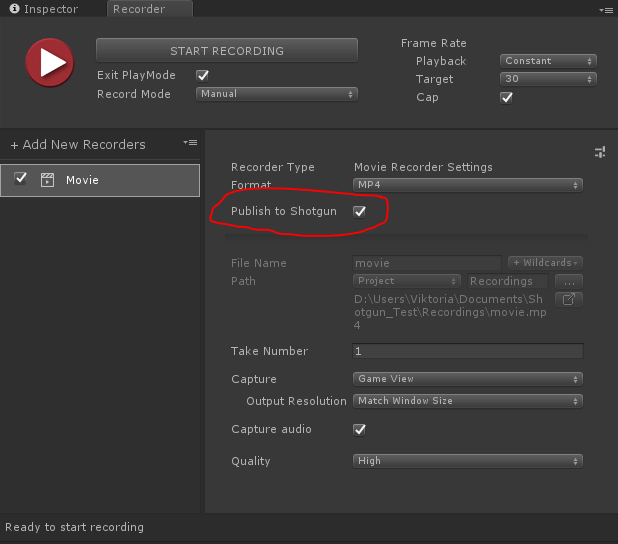
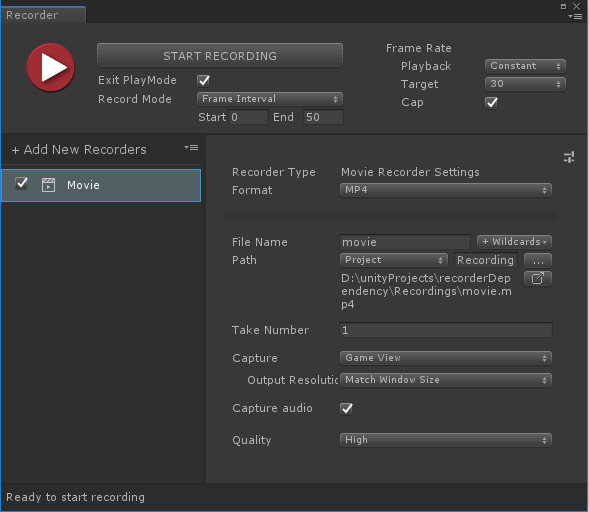
* Adapted docs for publish * Removed unused section in bootstrap

diff --git a/startup/com.unity.integrations.shotgun/Editor/Bootstrap.cs b/startup/com.unity.integrations.shotgun/Editor/Bootstrap.cs
@@ -104,13 +104,6 @@ public class Bootstrap
     }
 
 #if DEBUG
-
-#if UNITY_EDITOR_OSX
-    const string ProjectRoot = "/Volumes/shotgun_s_drive/imgspc";
-#else
-    const string ProjectRoot = "S:/imgspc";
-#endif
-
     [MenuItem("Shotgun/Debug/Bootstrap Engine")]
     public static void CallBootstrapEngine()
     {

diff --git a/startup/com.unity.integrations.shotgun/Documentation~/shotgunPublish.md b/startup/com.unity.integrations.shotgun/Documentation~/shotgunPublish.md
@@ -10,17 +10,15 @@ Before starting make sure your scene and Timeline are setup for recording the pl
 
 2. Add a new Movie Recorder
 
-3. In the Movie recorder settings select "Publish to Shotgun"
-
 ![Publish to Shotgun Checkbox](images/unity_recorder.png)
 
-4. Hit "Start Recording" to record the playblast
+3. From the Unity menu, select Shotgun/Record Timeline
 
-5. Once the playblast finishes recording, and the editor exits playmode, the Shotgun Publish window will automatically open, showing the session recording ready to upload
+4. Once the playblast finishes recording, and the editor exits playmode, the Shotgun Publish window will automatically open, showing the session recording ready to upload
 
 ![Publish to Shotgun Window](images/publish_playblast.png)
 
-6. Select the "Task", "Link" and optionally add a thumbnail and description, then click "Publish" to publish the playblast to Shotgun
+5. Select the "Task", "Link" and optionally add a thumbnail and description, then click "Publish" to publish the playblast to Shotgun
 
 **Note:** The playblast will be saved to a temporary location on disk
 

diff --git a/startup/com.unity.integrations.shotgun/Documentation~/unityShotgunMenu.md b/startup/com.unity.integrations.shotgun/Documentation~/unityShotgunMenu.md
@@ -12,6 +12,7 @@ After opening Unity from Shotgun Desktop, a new top level Shotgun menu item will
 | Load... | Opens the [Shotgun Loader app](https://support.shotgunsoftware.com/hc/en-us/articles/115000068574-Integrations-User-Guide#The%20Loader). |
 | Shotgun Panel... | Opens the [Shotgun Panel](https://support.shotgunsoftware.com/hc/en-us/articles/115000068574#The%20Shotgun%20Panel), a lightweight version of Shotgun that allows you to quickly and easily access Shotgun information such as Notes, Tasks, Versions and Publishes in Unity. | 
 | Publish... | Opens the [Shotgun Publish app](https://support.shotgunsoftware.com/hc/en-us/articles/115000068574-Integrations-User-Guide#The%20Publisher). |
+| Record Timeline | Records the timeline and Opens the [Shotgun Publish app](https://support.shotgunsoftware.com/hc/en-us/articles/115000068574-Integrations-User-Guide#The%20Publisher). |
 
 ## Project Specific Menu Items
 
